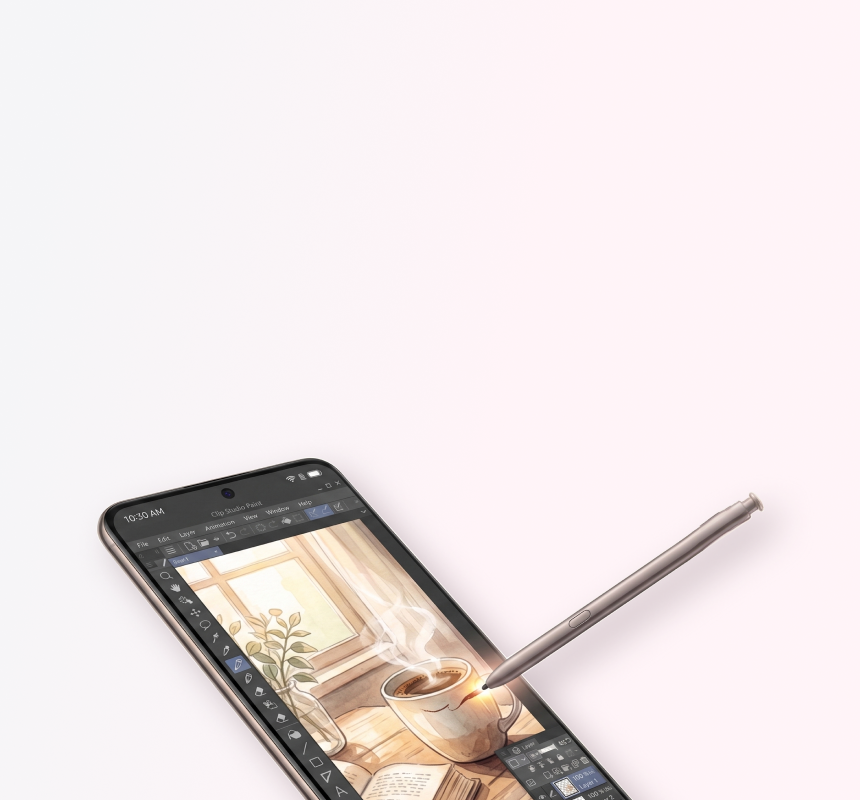
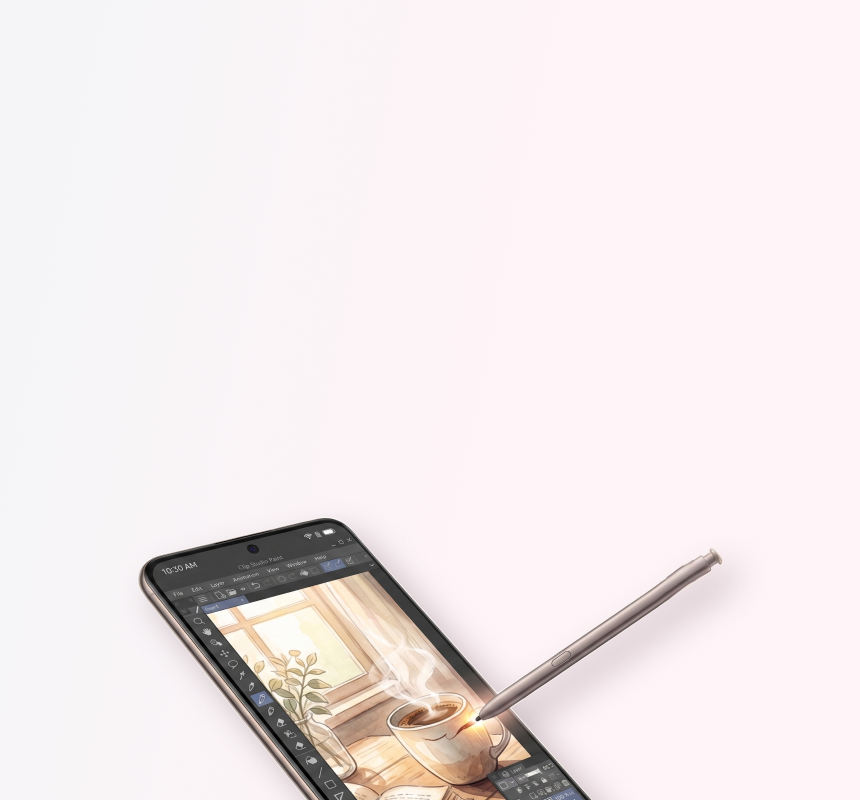
fix : mobile scale

Changed region(s): [[0.0907, 0.5625, 0.907, 1.0]]

diff --git a/src/assets/scss/variables.scss b/src/assets/scss/variables.scss
@@ -57,22 +57,22 @@
 }
 @media all and (max-width: 450px){
     // 390px 기준으로 계산
-    .h1{font-size: 10.256vw;} /*40px*/
-    .h2{font-size: 8.205vw;} /*32px*/
-    .h3{font-size: 6.667vw;} /*26px*/
-    .h4{font-size: 5.641vw;} /*22px*/
-    .big{font-size: 5.128vw;} /*20px*/
+    .h1{font-size: 9.666vw;} /*38px*/
+    .h2{font-size: 7.692vw;} /*30px*/
+    .h3{font-size: 6.154vw;} /*24px*/
+    .h4{font-size: 5.128vw;} /*20px*/
+    .big{font-size: 4.615vw;} /*18px*/
     .medium{font-size: 4.615vw;} /*18px*/
     .text{font-size: 4.103vw;} /*16px*/
     .small{font-size: 3.590vw;} /*14px*/
     .mini{font-size: 3.077vw;} /*12px*/
 }
 @media all and (max-width: 360px){
-    .h1{font-size: 10.000vw;} /*40px*/
-    .h2{font-size: 8.889vw;} /*32px*/
-    .h3{font-size: 7.222vw;} /*26px*/
-    .h4{font-size: 6.111vw;} /*22px*/
-    .big{font-size: 5.556vw;} /*20px*/
+    .h1{font-size: 9.6vw;} /* 35px */
+    .h2{font-size: 7.778vw;} /*28px*/
+    .h3{font-size: 6.667vw;} /*24px*/
+    .h4{font-size: 5.556vw;} /*20px*/
+    .big{font-size: 5.000vw;} /*18px*/
     .medium{font-size: 5.000vw;} /*18px*/
     .text{font-size: 4.444vw;} /*16px*/
     .small{font-size: 3.889vw;} /*14px*/

diff --git a/src/assets/scss/common.scss b/src/assets/scss/common.scss
@@ -49,11 +49,11 @@ html, body {font-family: 'Pretendard', 'Apple SD Sandol Gothic Neo', sans-serif;
   }
   @media all and (max-width: 360px){
     gap: 1.111vw;
-    &.xl{height: var(--scale_48); font-size: 5.000vw;} /*18px*/
-    &.lg{height: var(--scale_44); font-size: 5.000vw;} /*18px*/
-    &.regular{height: var(--scale_36); font-size: 4.444vw;} /*16px*/
-    &.sm{height: var(--scale_24); font-size: 4.444vw;} /*16px*/
-    &.mini{height: var(--scale_20); font-size: 3.889vw;} /*14px*/
+    &.xl{height: var(--scale_48); font-size: 4.444vw;} /*16px*/
+    &.lg{height: var(--scale_44); font-size: 4.444vw;} /*16px*/
+    &.regular{height: var(--scale_36); font-size: 4.167vw;} /*15px*/
+    &.sm{height: var(--scale_24); font-size: 4.167vw;} /*15px*/
+    &.mini{height: var(--scale_20); font-size: 3.611vw;} /*13px*/
   }
 }
 